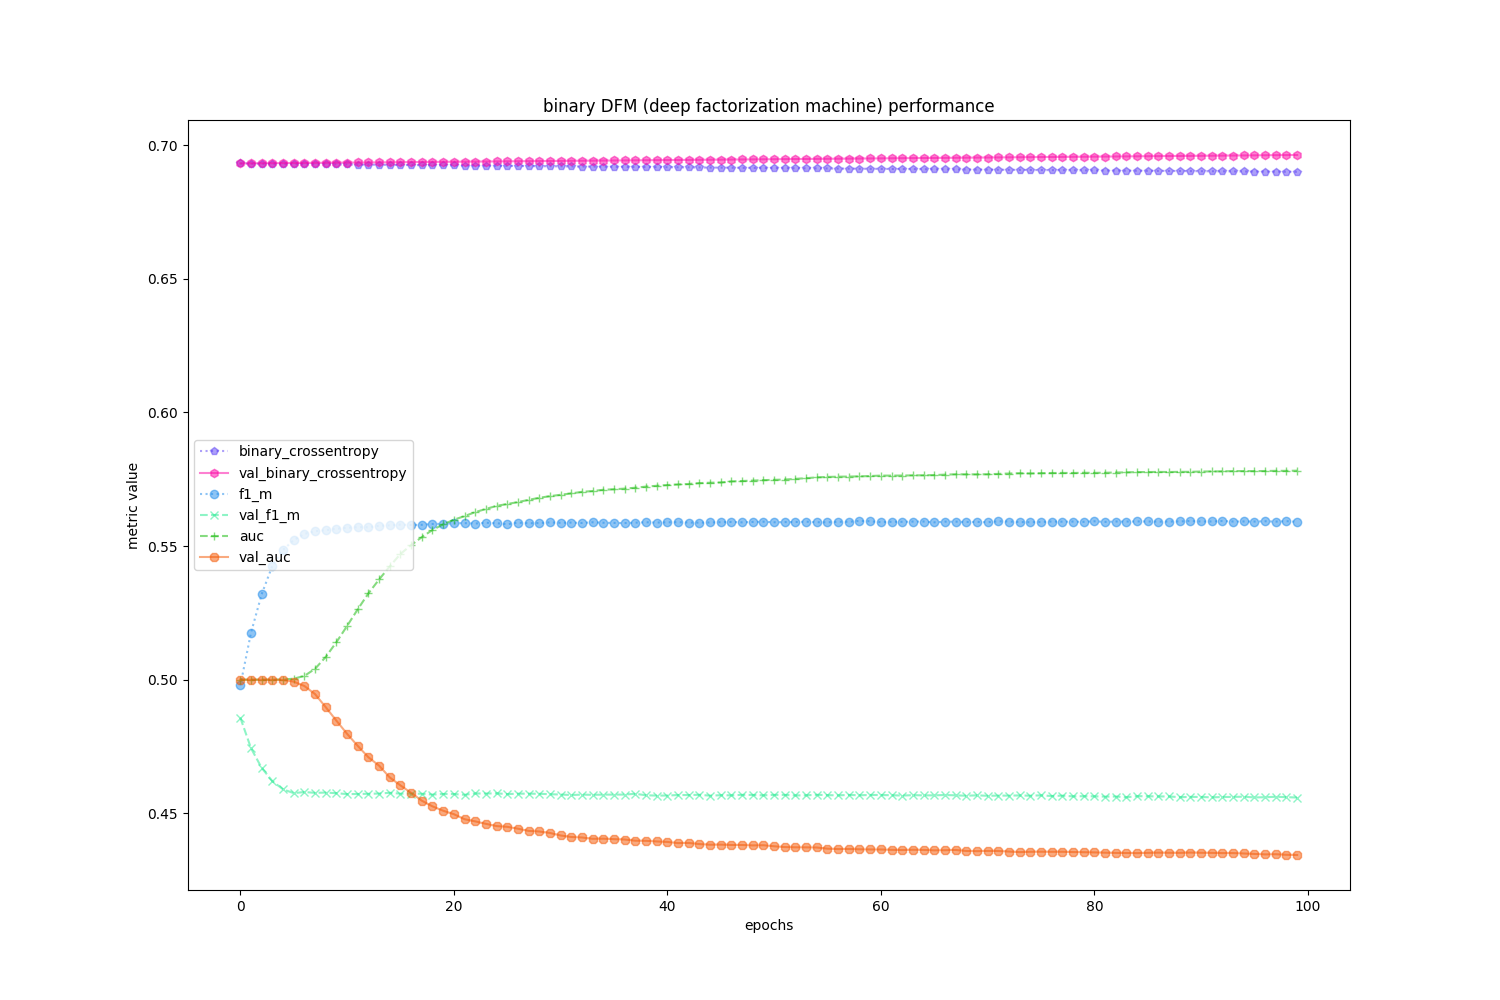
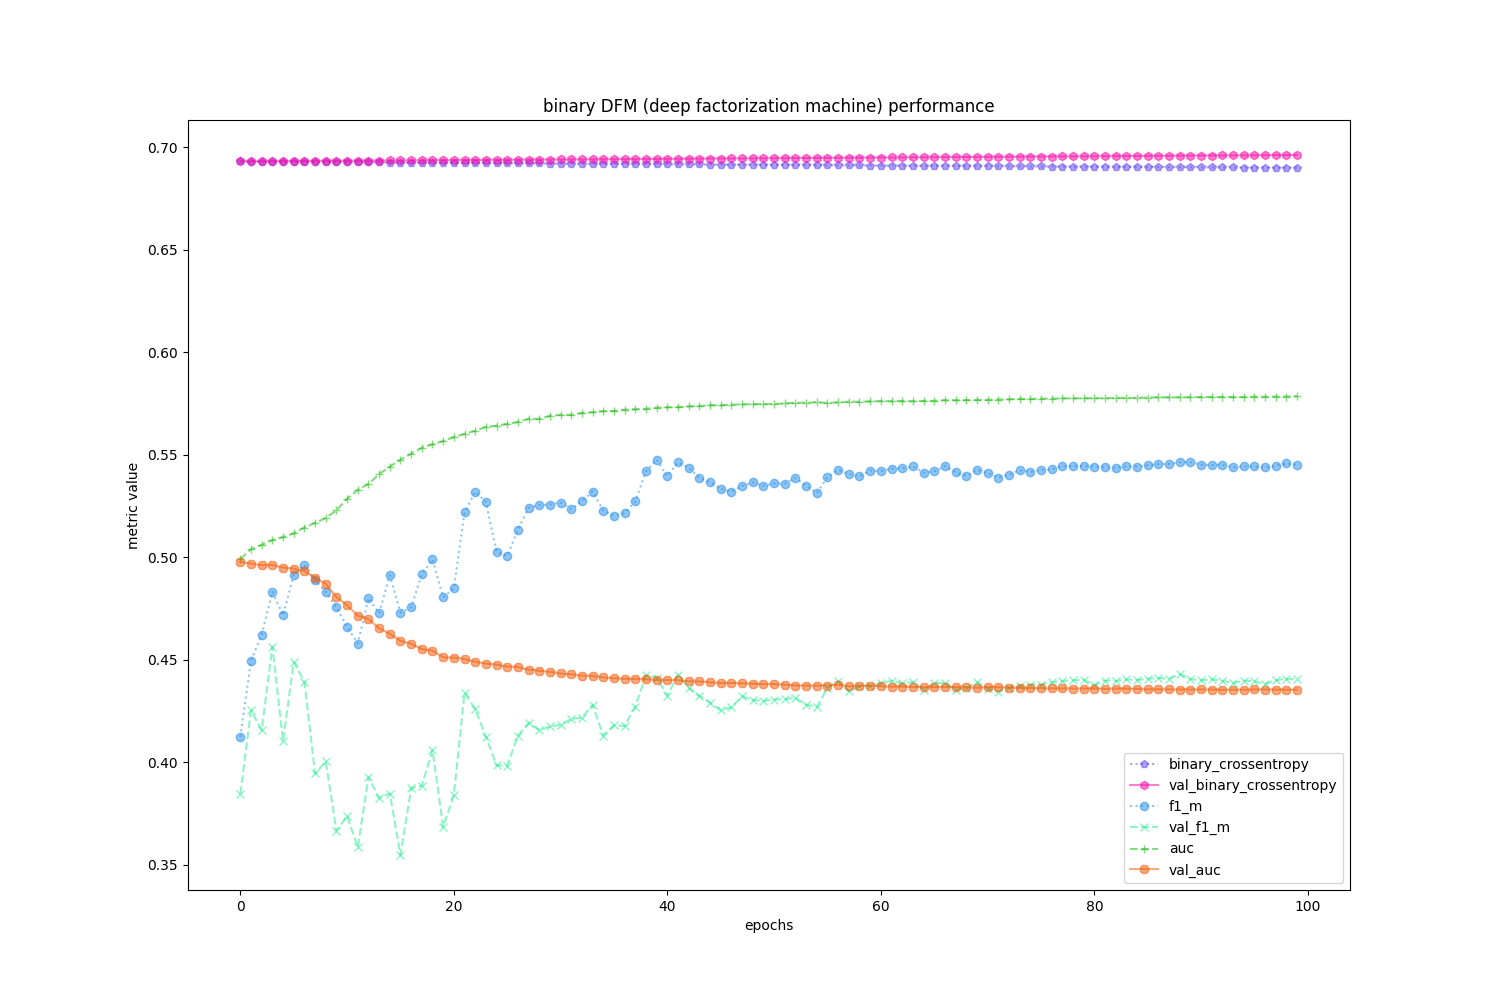
resolved segment id and batch size not matching bug by adding flatten layer to architecture

diff --git a/train_model.py b/train_model.py
@@ -22,9 +22,11 @@ if __name__ == "__main__":
     # instantiate parser to take args from user in command line
     parser = ArgumentParser()
     parser.add_argument('-d', type=str, default="juris-300k", help='dataset to use which can be juris-300k for the juris docs rating dataset or ml-1m for the movie lens rating dataset')
+    parser.add_argument('--protocol', type=str, default="A", help="the protocol or procedure to follow to preprocess the dataset which consists of either preprocessing for binary classification or for regression")
     parser.add_argument('--model_name', type=str, default="FM", help="which specific model to train")
     parser.add_argument('--n_features', type=int, default=10, help='number of features of decomposed matrices X, THETA, B_u, and B_i of Y')
     parser.add_argument('--n_epochs', type=int, default=300, help='the number of epochs')
+    parser.add_argument('--layers_dims', nargs='+', type=int, default=[16, 16, 16], help='number of layers and number of nodes in each layer of the dnn')
     parser.add_argument('--epoch_to_rec_at', type=int, default=50, help='every epoch to record at')
     parser.add_argument('--rec_alpha', type=float, default=1e-4, help='learning rate of recommendation task')
     parser.add_argument('--rec_lambda', type=float, default=0.1, help='lambda value of regularization term in recommendation task')
@@ -39,7 +41,8 @@ if __name__ == "__main__":
     out_file = args.d.replace('-', '_')
 
     # load user-item rating data splits and meta data
-    n_users, n_items = load_meta_data(f'./data/{args.d}/{out_file}_train_meta.json')
+    meta_data = load_meta_data(f'./data/{args.d}/{out_file}_train_meta.json')
+    n_users, n_items = meta_data['n_users'], meta_data['n_items']
     train_data, cross_data, test_data = load_data_splits(args.d, f'./data/{args.d}')
 
     # load model
@@ -49,6 +52,7 @@ if __name__ == "__main__":
         n_users=n_users,
         n_items=n_items,
         n_features=args.n_features,
+        layers_dims=args.layers_dims,
         epoch_to_rec_at=args.epoch_to_rec_at,
         rec_alpha=args.rec_alpha,
         rec_lambda=args.rec_lambda,
@@ -75,7 +79,8 @@ if __name__ == "__main__":
     train_cross_results_v2(
         results=build_results(history, metrics=['binary_crossentropy', 'val_binary_crossentropy', 'f1_m', 'val_f1_m', 'auc', 'val_auc']), 
         epochs=history.epoch, 
-        img_title='binary DFM (deep factorization machine) performance')
+        img_title='binary DFM (deep factorization machine) performance', 
+        image_only=True)
 
     # train_cross_results_v2(results=build_results(history, metrics=['loss', 'val_loss',]), epochs=history.epoch, img_title='FM (factorization machine) performance')
     # train_cross_results_v2(results=build_results(history, metrics=['loss', 'val_loss',]), epochs=history.epoch, img_title='DFM (deep factorization machine) performance')

diff --git a/models/model_arcs.py b/models/model_arcs.py
@@ -104,9 +104,10 @@ class DFM(tf.keras.Model):
         # initialize flatten layer to flatten sum of the dot product
         # of user_emb & item_emb, user_emb_bias, and  item_emb_bias
         self.flatten_fact_matrix_layer = tf.keras.layers.Flatten()
-
+        
         # initialize concat layer as input to DNN
         self.concat_layer = tf.keras.layers.Concatenate(axis=2)
+        self.flatten_concat_emb_layer = tf.keras.layers.Flatten()
 
         # initialize dense and activation layers of DNN
         self.dense_layers, self.act_layers, self.dropout_layers = self.init_dense_act_drop_layers()
@@ -146,21 +147,22 @@ class DFM(tf.keras.Model):
         # concatenate the user_emb and item_emb vectors
         # then feed to fully connected deep neural net
         A = self.concat_layer([user_emb, item_emb])
+        flat_A = self.flatten_concat_emb_layer(A)
 
         # forward propagate through deep neural network according to number of layers
         for l in range(self.num_layers):
             # pass concatenated user_embedding and item embedding 
             # to dense layer to calculate Z at layer l
-            Z = self.dense_layers[l](A)
+            Z = self.dense_layers[l](flat_A)
 
             # activate output Z layer by passing to relu activation layer
-            A = self.act_layers[l](Z)
+            flat_A = self.act_layers[l](Z)
 
             if kwargs['training'] == True:
-                A = self.dropout_layers[l](A)
+                flat_A = self.dropout_layers[l](flat_A)
 
         # pass second to the last layer to a linear layer
-        A_last = self.last_dense_layer(A)
+        A_last = self.last_dense_layer(flat_A)
 
         # add the output to the flattened factorized matrix
         sum_ = self.add_layer([A_last, fact_matrix_flat])

diff --git a/models/test_arcs_a.py b/models/test_arcs_a.py
@@ -105,6 +105,7 @@ class DFM(tf.keras.Model):
 
         # initialize concat layer as input to DNN
         self.concat_layer = tf.keras.layers.Concatenate(axis=2)
+        self.flatten_concat_emb_layer = tf.keras.layers.Flatten()
 
         # initialize dense and activation layers of DNN
         self.dense_layers, self.act_layers, self.dropout_layers = self.init_dense_act_drop_layers()
@@ -142,21 +143,22 @@ class DFM(tf.keras.Model):
         # concatenate the user_emb and item_emb vectors
         # then feed to fully connected deep neural net
         A = self.concat_layer([user_emb, item_emb])
+        flat_A = self.flatten_concat_emb_layer(A)
 
         # forward propagate through deep neural network according to number of layers
         for l in range(self.num_layers):
             # pass concatenated user_embedding and item embedding 
             # to dense layer to calculate Z at layer l
-            Z = self.dense_layers[l](A)
+            Z = self.dense_layers[l](flat_A)
 
             # activate output Z layer by passing to relu activation layer
-            A = self.act_layers[l](Z)
+            flat_A = self.act_layers[l](Z)
 
             if kwargs['training'] == True:
-                A = self.dropout_layers[l](A)
+                flat_A = self.dropout_layers[l](flat_A)
 
         # pass second to the last layer to a linear layer
-        A_last = self.last_dense_layer(A)
+        A_last = self.last_dense_layer(flat_A)
 
         # add the output to the flattened factorized matrix
         out = self.output_layer([A_last, fact_matrix_flat])

diff --git a/models/model_loader.py b/models/model_loader.py
@@ -15,7 +15,7 @@ from tensorflow.keras.metrics import (BinaryAccuracy,
 from models.model_arcs import FM, DFM, MKR
 from metrics.custom_metrics import f1_m
 
-def load_model(model_name: str, protocol: str, n_users: int, n_items: int, n_features: int, epoch_to_rec_at: int, rec_alpha: float, rec_lambda: float, rec_keep_prob: float, regularization: str):
+def load_model(model_name: str, protocol: str, n_users: int, n_items: int, n_features: int, layers_dims: list, epoch_to_rec_at: int, rec_alpha: float, rec_lambda: float, rec_keep_prob: float, regularization: str):
     """
     creates, compiles and returns chosen model to train
 
@@ -35,7 +35,7 @@ def load_model(model_name: str, protocol: str, n_users: int, n_items: int, n_fea
     protocols = {
         'A': {
             'loss': bce_loss(),
-            'metrics': [bce_metric(), BinaryAccuracy(), Precision(), Recall(), AUC()]#.extend([f1_m])
+            'metrics': [bce_metric(), BinaryAccuracy(), Precision(), Recall(), AUC(), f1_m]
         },
         'B': {
             'loss': mse_loss(),
@@ -54,7 +54,7 @@ def load_model(model_name: str, protocol: str, n_users: int, n_items: int, n_fea
             n_users=n_users, 
             n_items=n_items, 
             emb_dim=n_features,
-            layers_dims=[8],
+            layers_dims=layers_dims,
             lambda_=rec_lambda, 
             keep_prob=rec_keep_prob, 
             regularization=regularization)

diff --git a/utilities/data_visualizers.py b/utilities/data_visualizers.py
@@ -49,12 +49,12 @@ def describe_col(df, col):
     print(f'total unique values: {len(unique_ids)}')
     # print(unique_ids)
 
-def train_cross_results_v2(results: dict, epochs: list, img_title: str='figure'):
+def train_cross_results_v2(results: dict, epochs: list, img_title: str='figure', image_only=False):
     """
     plots the number of epochs against the cost given cost values across these epochs
     """
-    # # use matplotlib backend
-    # mpl.use('Agg')
+    # use matplotlib backend
+    mpl.use('Agg')
 
     figure = plt.figure(figsize=(15, 10))
     axis = figure.add_subplot()
@@ -70,8 +70,9 @@ def train_cross_results_v2(results: dict, epochs: list, img_title: str='figure')
     axis.legend()
 
     plt.savefig(f'./figures & images/{img_title}.png')
-    plt.show()
-    
+
+    if image_only is False:
+        plt.show()
 
     # delete figure
     del figure

diff --git a/utilities/data_loaders.py b/utilities/data_loaders.py
@@ -106,10 +106,10 @@ def load_data_splits(dataset: str, dir_path: str):
     the split final preprocessed data
     """
 
-    out_file = dataset.replace('-', '_') + '_ratings'
-    train_data = pd.read_csv(f'{dir_path}/{out_file}_final_train.csv')
-    cross_data = pd.read_csv(f'{dir_path}/{out_file}_final_cross.csv')
-    test_data = pd.read_csv(f'{dir_path}/{out_file}_final_test.csv')
+    out_file = dataset.replace('-', '_')
+    train_data = pd.read_csv(f'{dir_path}/{out_file}_train.csv', index_col=0)
+    cross_data = pd.read_csv(f'{dir_path}/{out_file}_cross.csv', index_col=0)
+    test_data = pd.read_csv(f'{dir_path}/{out_file}_test.csv', index_col=0)
 
     return train_data, cross_data, test_data
 

diff --git a/readme.md b/readme.md
@@ -157,11 +157,11 @@ Name: item_id, dtype: object
 
 **Problems:**
 1. <s>A big problem is that upon using refactor_raw_ratings() to get only positive ratings and sample unwatched ratings, item_ids unsually doubles from 3706 items to now 6040 items. So why is that?</s>
-2. There is something wrong with split data or refactor raw ratings because there seems to be a mismatch in original number of user id's and item_id's. I suspect because user id and item ids are lessened because negative ratings are removed. Nevertheless following models and used dataset produce the ff. results:
-* FM with juris_300k is ok 
-* DFM with juris_300k causes `Allocation of 268435456 exceeds 10% of free system memory.` & `OP_REQUIRES failed at segment_reduction_ops_impl.h:478 : INVALID_ARGUMENT: data.shape = [8192] does not start with segment_ids.shape = [67108864]`. I suspect this has something to do with batch size and the model architecture itself
-* FM with juris_600k is not ok to begin with (even if it runs fine albeit with abysmal AUC, F1-Score, and Binary Accuracy results) since there is one user that is missing in the final refactored juris_600k dataset, where instead of 12034 users all in all there are now only 12033 users
-* DFM with juris_600k causes `Allocation of 268435456 exceeds 10% of free system memory.` & `OP_REQUIRES failed at segment_reduction_ops_impl.h:478 : INVALID_ARGUMENT: data.shape = [8192] does not start with segment_ids.shape = [67108864]`. Again I suspect this has something to do with batch size and the model architecture itself
+2. <s>There is something wrong with split data or refactor raw ratings because there seems to be a mismatch in original number of user id's and item_id's. I suspect because user id and item ids are lessened because negative ratings are removed. Nevertheless following models and used dataset produce the ff. results:</s>
+* <s>FM with juris_300k is ok</s>
+* <s>DFM with juris_300k causes `Allocation of 268435456 exceeds 10% of free system memory.` & `OP_REQUIRES failed at segment_reduction_ops_impl.h:478 : INVALID_ARGUMENT: data.shape = [8192] does not start with segment_ids.shape = [67108864]`. I suspect this has something to do with batch size and the model architecture itself</s>
+* <s>FM with juris_600k is not ok to begin with (even if it runs fine albeit with abysmal AUC, F1-Score, and Binary Accuracy results) since there is one user that is missing in the final refactored juris_600k dataset, where instead of 12034 users all in all there are now only 12033 users</s>
+* <s>DFM with juris_600k causes `Allocation of 268435456 exceeds 10% of free system memory.` & `OP_REQUIRES failed at segment_reduction_ops_impl.h:478 : INVALID_ARGUMENT: data.shape = [8192] does not start with segment_ids.shape = [67108864]`. Again I suspect this has something to do with batch size and the model architecture itself. **Ok found the problem because if I remove deep neural network architecture model works fine**. Resolved just added flatten layer after concatednation layer because I forgot</s>
 
 **Questions:**
 
